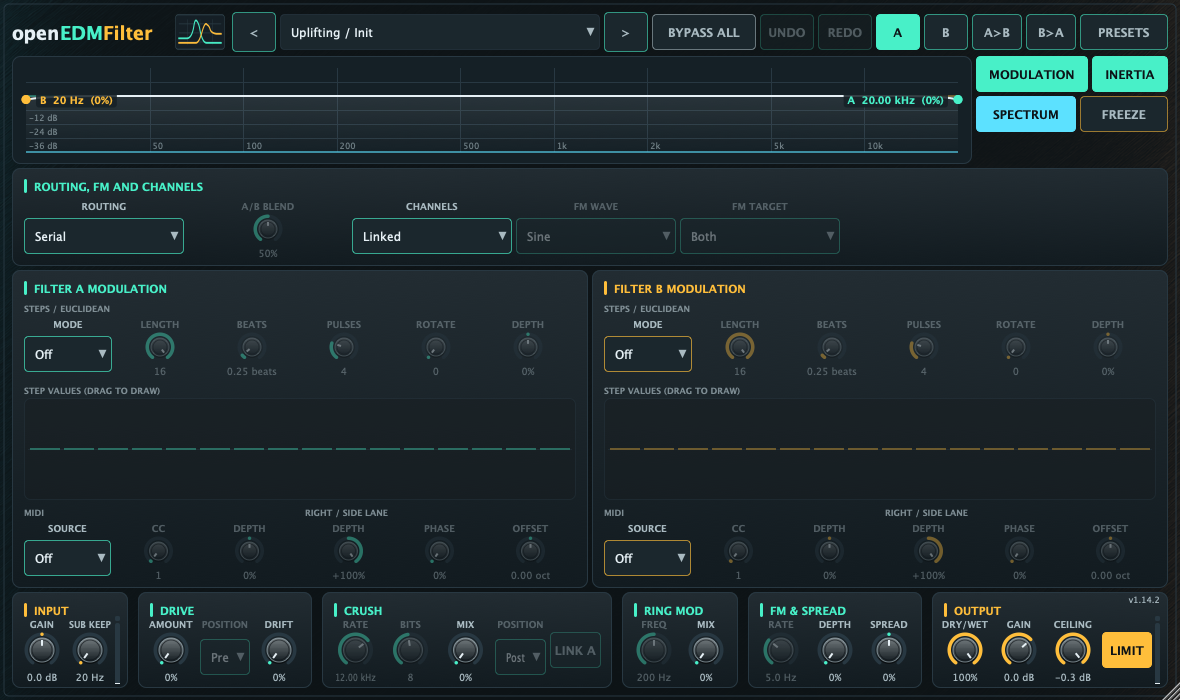
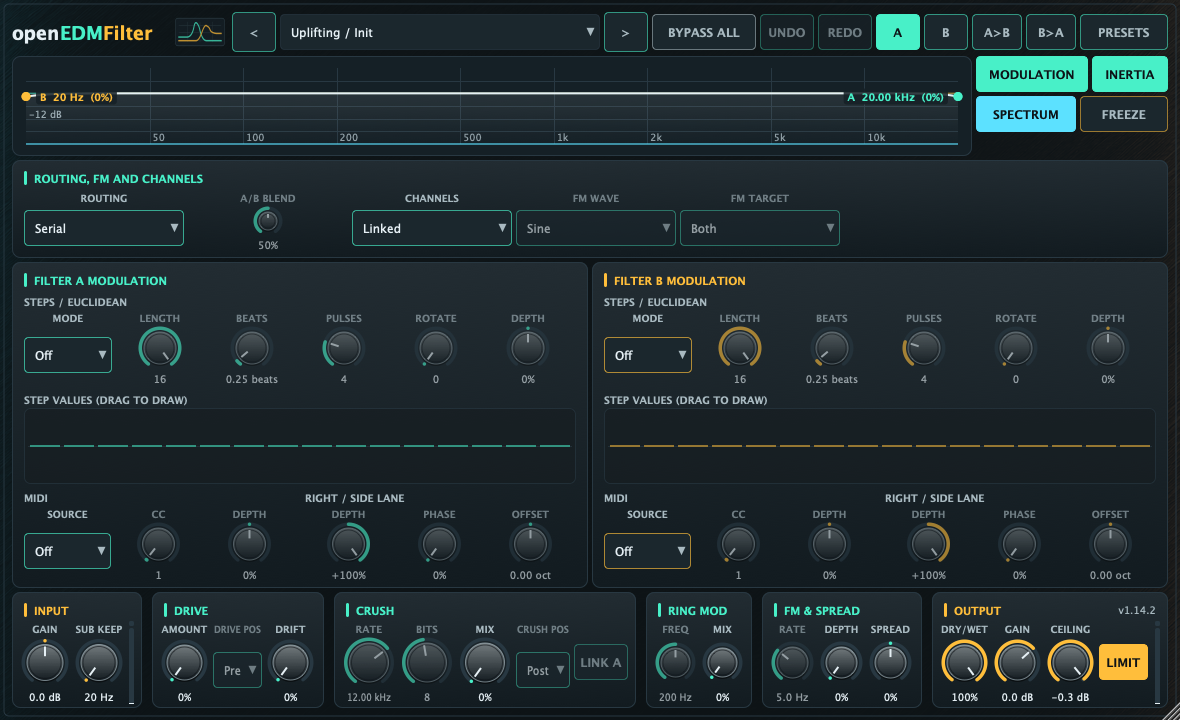
Polish openEDMFilter UI (Pass 4 audit)

diff --git a/Source/Plugin/Panels.cpp b/Source/Plugin/Panels.cpp
@@ -222,7 +222,7 @@ void ResponseView::paint(juce::Graphics& g) {
         readouts[band] = readoutBounds(markers[band], width, plot, band == 0 ? juce::Rectangle<float>{} : readouts[0]);
     });
 
-    g.setFont(juce::FontOptions(11.0f));
+    g.setFont(juce::FontOptions(11.5f));
     const std::array<std::pair<double, const char*>, 8> gridLines{ {
         { 50.0, "50" }, { 100.0, "100" }, { 200.0, "200" }, { 500.0, "500" },
         { 1000.0, "1k" }, { 2000.0, "2k" }, { 5000.0, "5k" }, { 10000.0, "10k" } } };
@@ -230,10 +230,10 @@ void ResponseView::paint(juce::Graphics& g) {
         const float x = xForHz(line.first);
         g.setColour(theme::kPanelEdge);
         g.drawVerticalLine(juce::roundToInt(x), plot.getY(), plot.getBottom());
-        const juce::Rectangle<float> labelRect(x + 3.0f, plot.getBottom() - 14.0f, 40.0f, 13.0f);
+        const juce::Rectangle<float> labelRect(x + 3.0f, plot.getBottom() - 14.0f, 44.0f, 14.0f);
         if (std::ranges::any_of(readouts, [&](const auto& readout) { return readout.intersects(labelRect); }))
             return;
-        g.setColour(theme::kTextDim.withAlpha(0.7f));
+        g.setColour(theme::kTextDim.withAlpha(0.82f));
         g.drawText(line.second, labelRect, juce::Justification::centredLeft);
     });
     const auto labelled = labelledDecibels(plot, readouts);
@@ -243,9 +243,9 @@ void ResponseView::paint(juce::Graphics& g) {
         g.drawHorizontalLine(juce::roundToInt(y), plot.getX(), plot.getRight());
         if (std::ranges::find(labelled, db) == labelled.end())
             return;
-        g.setColour(theme::kTextDim.withAlpha(0.6f));
+        g.setColour(theme::kTextDim.withAlpha(0.88f));
         g.drawText((db > 0.0f ? "+" : "") + juce::String(juce::roundToInt(db)) + " dB",
-                   juce::Rectangle<float>(plot.getX() + 3.0f, y + 1.0f, 50.0f, 12.0f), juce::Justification::centredLeft);
+                   juce::Rectangle<float>(plot.getX() + 3.0f, y + 1.0f, 52.0f, 13.0f), juce::Justification::centredLeft);
     });
 
     if (processor_.spectrumVisible.load(std::memory_order_relaxed)) {
@@ -519,7 +519,7 @@ void SweepSlopeEditor::paint(juce::Graphics& g) {
     const int bars = std::max(1, settings.bars);
     const int divisions = std::min(bars, 8);
     const int barsPerDivision = std::max(1, bars / divisions);
-    g.setFont(juce::FontOptions(11.0f));
+    g.setFont(juce::FontOptions(12.0f));
     std::ranges::for_each(std::views::iota(0, divisions + 1), [&](int div) {
         const float fraction = static_cast<float>(div) / static_cast<float>(divisions);
         const float x = plot.getX() + fraction * plot.getWidth();
@@ -527,9 +527,9 @@ void SweepSlopeEditor::paint(juce::Graphics& g) {
         g.drawVerticalLine(juce::roundToInt(x), plot.getY(), plot.getBottom());
         if (div < divisions) {
             const int barNumber = div * barsPerDivision + 1;
-            g.setColour(theme::kTextDim.withAlpha(0.75f));
+            g.setColour(theme::kTextDim.withAlpha(0.92f));
             g.drawText("B" + juce::String(barNumber),
-                       juce::Rectangle<float>(x + 2.0f, plot.getBottom() + 1.0f, 36.0f, 14.0f),
+                       juce::Rectangle<float>(x + 2.0f, plot.getBottom() + 1.0f, 40.0f, 15.0f),
                        juce::Justification::centredLeft);
         }
     });
@@ -615,25 +615,25 @@ void SweepSlopeEditor::paint(juce::Graphics& g) {
 
     // Header overlay showing live bar, time signature, BPM and slope endpoints
     const auto headerBar = getLocalBounds().toFloat().reduced(8.0f, 2.0f).removeFromTop(16.0f);
-    g.setFont(juce::FontOptions(11.0f, juce::Font::bold));
+    g.setFont(juce::FontOptions(11.5f, juce::Font::bold));
     g.setColour(theme::kAccentA.withAlpha(activeAlpha));
     const juce::String cutSummary = "CUT " + params::formatHz(settings.cutoffStartHz) + " -> " + params::formatHz(settings.cutoffEndHz);
-    g.drawText(cutSummary, headerBar.withWidth(170.0f), juce::Justification::centredLeft);
+    g.drawText(cutSummary, headerBar.withWidth(185.0f), juce::Justification::centredLeft);
 
     g.setColour(theme::kAccentB.withAlpha(activeAlpha));
     const juce::String resSummary = "RES " + juce::String(juce::roundToInt(settings.resonanceStart * 100.0f)) + "% -> "
         + juce::String(juce::roundToInt(settings.resonanceEnd * 100.0f)) + "%";
-    g.drawText(resSummary, headerBar.withTrimmedLeft(170.0f).withWidth(120.0f), juce::Justification::centredLeft);
+    g.drawText(resSummary, headerBar.withTrimmedLeft(185.0f).withWidth(140.0f), juce::Justification::centredLeft);
 
     const auto signature = processor_.displayTimeSignature.load();
     const float currentBar = phase * static_cast<float>(bars) + 1.0f;
     const float bpm = processor_.displayBpm.load();
-    g.setFont(juce::FontOptions(11.5f, juce::Font::bold));
-    g.setColour(theme::kText.withAlpha(activeAlpha * 0.9f));
+    g.setFont(juce::FontOptions(12.5f, juce::Font::bold));
+    g.setColour(theme::kText.withAlpha(activeAlpha));
     const juce::String clockSummary = "BAR " + juce::String(currentBar, 1) + "/" + juce::String(bars)
         + "  " + juce::String(signature.numerator) + "/" + juce::String(signature.denominator)
         + "  " + juce::String(juce::roundToInt(bpm)) + " BPM";
-    g.drawText(clockSummary, getLocalBounds().toFloat().reduced(8.0f, 2.0f).removeFromBottom(16.0f), juce::Justification::centredRight);
+    g.drawText(clockSummary, getLocalBounds().toFloat().reduced(8.0f, 2.0f).removeFromBottom(17.0f), juce::Justification::centredRight);
 }
 
 SweepPanel::SweepPanel(OpenEdmFilterProcessor& processor)
@@ -805,21 +805,24 @@ void SweepPanel::resized() {
     auto bounds = getLocalBounds().reduced(12, 6);
     // The slot buttons share the title row, so each knob row below keeps 62 px.
     auto header = bounds.removeFromTop(40);
-    slopePresetBox_.setBounds(header.removeFromRight(126).withSizeKeepingCentre(126, 36));
-    header.removeFromRight(5);
+    const int gap = header.getWidth() >= 1100 ? 8 : 5;
+    slopePresetBox_.setBounds(header.removeFromRight(128).withSizeKeepingCentre(128, 36));
+    header.removeFromRight(gap);
     target_.setBounds(header.removeFromRight(88));
-    header.removeFromRight(5);
-    mode_.setBounds(header.removeFromRight(98));
-    header.removeFromRight(5);
-    bars_.setBounds(header.removeFromRight(92));
-    barsLabel_.setBounds(header.removeFromRight(42));
+    header.removeFromRight(gap);
+    mode_.setBounds(header.removeFromRight(100));
+    header.removeFromRight(gap);
+    bars_.setBounds(header.removeFromRight(88));
+    header.removeFromRight(4);
+    barsLabel_.setBounds(header.removeFromRight(36));
     const auto titleFont = juce::Font(juce::FontOptions(13.0f, juce::Font::bold));
     header.removeFromLeft(juce::GlyphArrangement::getStringWidthInt(titleFont, juce::String(kSweepTitle).toUpperCase()) + 22);
-    enabled_.setBounds(header.removeFromLeft(95).withSizeKeepingCentre(95, 36));
-    header.removeFromLeft(5);
+    header.removeFromLeft(gap);
+    enabled_.setBounds(header.removeFromLeft(96).withSizeKeepingCentre(96, 36));
+    header.removeFromLeft(gap);
     std::ranges::for_each(slotButtons_, [&](juce::TextButton& button) {
         button.setBounds(header.removeFromLeft(64).withSizeKeepingCentre(64, 36));
-        header.removeFromLeft(4);
+        header.removeFromLeft(5);
     });
 
     bounds.removeFromTop(6);
@@ -1186,12 +1189,12 @@ EffectsPanel::EffectsPanel(OpenEdmFilterProcessor& processor)
       output_(processor.parameters, params::kOutput, "Gain", theme::kAccentOut),
       ceiling_(processor.parameters, params::kCeiling, "Ceiling", theme::kAccentOut),
       limiter_(processor.parameters, params::kLimiter, "LIMIT", theme::kAccentOut),
-      sections_{ { { "Input", theme::kAccentOut, 2, {} },
-                   { "Drive", theme::kAccentFx, 3, {} },
-                   { "Crush", theme::kAccentFx, 5, {} },
-                   { "Ring Mod", theme::kAccentFx, 2, {} },
-                   { "FM & Spread", theme::kAccentFx, 3, {} },
-                   { "Output", theme::kAccentOut, 4, {} } } },
+      sections_{ { { "Input", theme::kAccentOut, 22, {} },
+                   { "Drive", theme::kAccentFx, 29, {} },
+                   { "Crush", theme::kAccentFx, 51, {} },
+                   { "Ring Mod", theme::kAccentFx, 18, {} },
+                   { "FM & Spread", theme::kAccentFx, 27, {} },
+                   { "Output", theme::kAccentOut, 40, {} } } },
       inputMeter_(processor.displayInputPeak, "Input", kRefreshHz, theme::kAccentOut),
       outputMeter_(processor.displayOutputPeak, "Output", kRefreshHz, theme::kAccentOut) {
     crushLink_.setTooltip("Make the crush rate follow Filter A's cutoff modulation.");
@@ -1250,22 +1253,26 @@ void EffectsPanel::paint(juce::Graphics& g) {
     std::ranges::for_each(sections_, [&](const Section& section) {
         drawPanel(g, section.area, section.title, section.accent);
     });
-    g.setFont(juce::FontOptions(11.5f));
+    g.setFont(juce::FontOptions(12.0f));
     g.setColour(theme::kTextDim);
-    g.drawText("v" JucePlugin_VersionString, getLocalBounds().reduced(10, 3).removeFromTop(16), juce::Justification::centredRight);
+    const auto outputHeader = sections_.back().area.withHeight(20).withY(sections_.back().area.getY() + 8).reduced(12, 0);
+    g.drawText("v" JucePlugin_VersionString, outputHeader, juce::Justification::centredRight);
 }
 
 void EffectsPanel::resized() {
     auto bounds = getLocalBounds();
-    const int totalUnits = std::accumulate(sections_.begin(), sections_.end(), 0,
+    int remainingUnits = std::accumulate(sections_.begin(), sections_.end(), 0,
         [](int units, const Section& section) { return units + section.units; });
-    const int gaps = kSectionGap * static_cast<int>(sections_.size() - 1);
-    const int unitWidth = (bounds.getWidth() - gaps) / totalUnits;
-    std::ranges::for_each(sections_, [&](Section& section) {
-        section.area = bounds.removeFromLeft(section.units * unitWidth);
+    int remainingWidth = bounds.getWidth() - kSectionGap * static_cast<int>(sections_.size() - 1);
+    for (size_t i = 0; i < sections_.size(); ++i) {
+        const int sectionWidth = (i + 1 == sections_.size())
+            ? remainingWidth
+            : (remainingWidth * sections_[i].units + remainingUnits / 2) / remainingUnits;
+        sections_[i].area = bounds.removeFromLeft(sectionWidth);
         bounds.removeFromLeft(kSectionGap);
-    });
-    sections_.back().area = sections_.back().area.withRight(getWidth());
+        remainingWidth -= sectionWidth;
+        remainingUnits -= sections_[i].units;
+    }
 
     const auto content = [&](size_t section) {
         auto area = sections_[section].area.reduced(8, 0).withTrimmedTop(juce::jmin(34, juce::jmax(18, sections_[section].area.getHeight() / 4)));
@@ -1273,14 +1280,14 @@ void EffectsPanel::resized() {
     };
     auto input = content(0);
     inputMeter_.setBounds(input.removeFromRight(kMeterWidth));
-    layoutRow(input.withTrimmedRight(3), { &inputGain_, &subPreserve_ });
+    layoutRow(input.withTrimmedRight(4), { &inputGain_, &subPreserve_ });
     layoutRow(content(1), { &drive_, &drivePosition_, &analogDrift_ });
     layoutRow(content(2), { &crushRate_, &crushBits_, &crushMix_, &crushPosition_, &crushLink_ });
     layoutRow(content(3), { &ringFrequency_, &ringMix_ });
     layoutRow(content(4), { &fmRate_, &fmDepth_, &stereoSpread_ });
     auto output = content(5);
     outputMeter_.setBounds(output.removeFromRight(kMeterWidth));
-    layoutRow(output.withTrimmedRight(3), { &mix_, &output_, &ceiling_, &limiter_ });
+    layoutRow(output.withTrimmedRight(4), { &mix_, &output_, &ceiling_, &limiter_ });
 }
 
 } // namespace openedm::ui

diff --git a/Source/Plugin/Controls.cpp b/Source/Plugin/Controls.cpp
@@ -11,9 +11,9 @@ namespace {
 
 constexpr int kTitleHeight = 15;
 constexpr int kValueHeight = 15;
-constexpr int kControlHeight = 40;
+constexpr int kControlHeight = 36;
 constexpr int kCellGap = 4;
-constexpr float kTitleFontSize = 11.0f;
+constexpr float kTitleFontSize = 11.5f;
 
 } // namespace
 
@@ -337,9 +337,9 @@ void drawPanel(juce::Graphics& g, juce::Rectangle<int> area, const juce::String&
 }
 
 void drawCaption(juce::Graphics& g, juce::Rectangle<int> area, const juce::String& text) {
-    g.setColour(theme::kTextDim.withAlpha(0.85f));
-    g.setFont(juce::FontOptions(11.0f, juce::Font::bold));
-    g.drawText(text.toUpperCase(), area.removeFromTop(15), juce::Justification::centredLeft);
+    g.setColour(theme::kTextDim);
+    g.setFont(juce::FontOptions(12.0f, juce::Font::bold));
+    g.drawText(text.toUpperCase(), area.removeFromTop(16), juce::Justification::centredLeft);
 }
 
 bool isParamLocked(Apvts& state, const juce::String& paramId) {

diff --git a/Tests/PluginTests.cpp b/Tests/PluginTests.cpp
@@ -1106,9 +1106,9 @@ TEST_CASE("The look and feel draws disabled buttons, dials and menus dimmed", "[
         return total;
     };
 
-    CHECK(ink(button, false) < 0.6f * ink(button, true));
-    CHECK(ink(dial, false) < 0.6f * ink(dial, true));
-    CHECK(ink(menu, false) < 0.6f * ink(menu, true));
+    CHECK(ink(button, false) < 0.7f * ink(button, true));
+    CHECK(ink(dial, false) < 0.7f * ink(dial, true));
+    CHECK(ink(menu, false) < 0.7f * ink(menu, true));
 }
 
 TEST_CASE("AUTO SWEEP replaces the sweep BYPASS and engaged bypass draws as off", "[plugin][ui]") {

diff --git a/Source/Plugin/EdmLookAndFeel.cpp b/Source/Plugin/EdmLookAndFeel.cpp
@@ -160,7 +160,7 @@ juce::Font EdmLookAndFeel::getPopupMenuFont() {
 
 juce::Label* EdmLookAndFeel::createSliderTextBox(juce::Slider& slider) {
     auto* label = LookAndFeel_V4::createSliderTextBox(slider);
-    label->setFont(juce::FontOptions(11.5f));
+    label->setFont(juce::FontOptions(12.0f));
     return label;
 }
 

diff --git a/Source/Plugin/Theme.h b/Source/Plugin/Theme.h
@@ -20,6 +20,6 @@ inline const juce::Colour kAccentSpectrum{ 0xff5ce1ff };
 inline const juce::Colour kBypassEngaged = kTextDim;
 
 // Alpha for a control that has no effect now or cannot act.
-inline constexpr float kInactiveAlpha = 0.4f;
+inline constexpr float kInactiveAlpha = 0.6f;
 
 } // namespace openedm::theme
